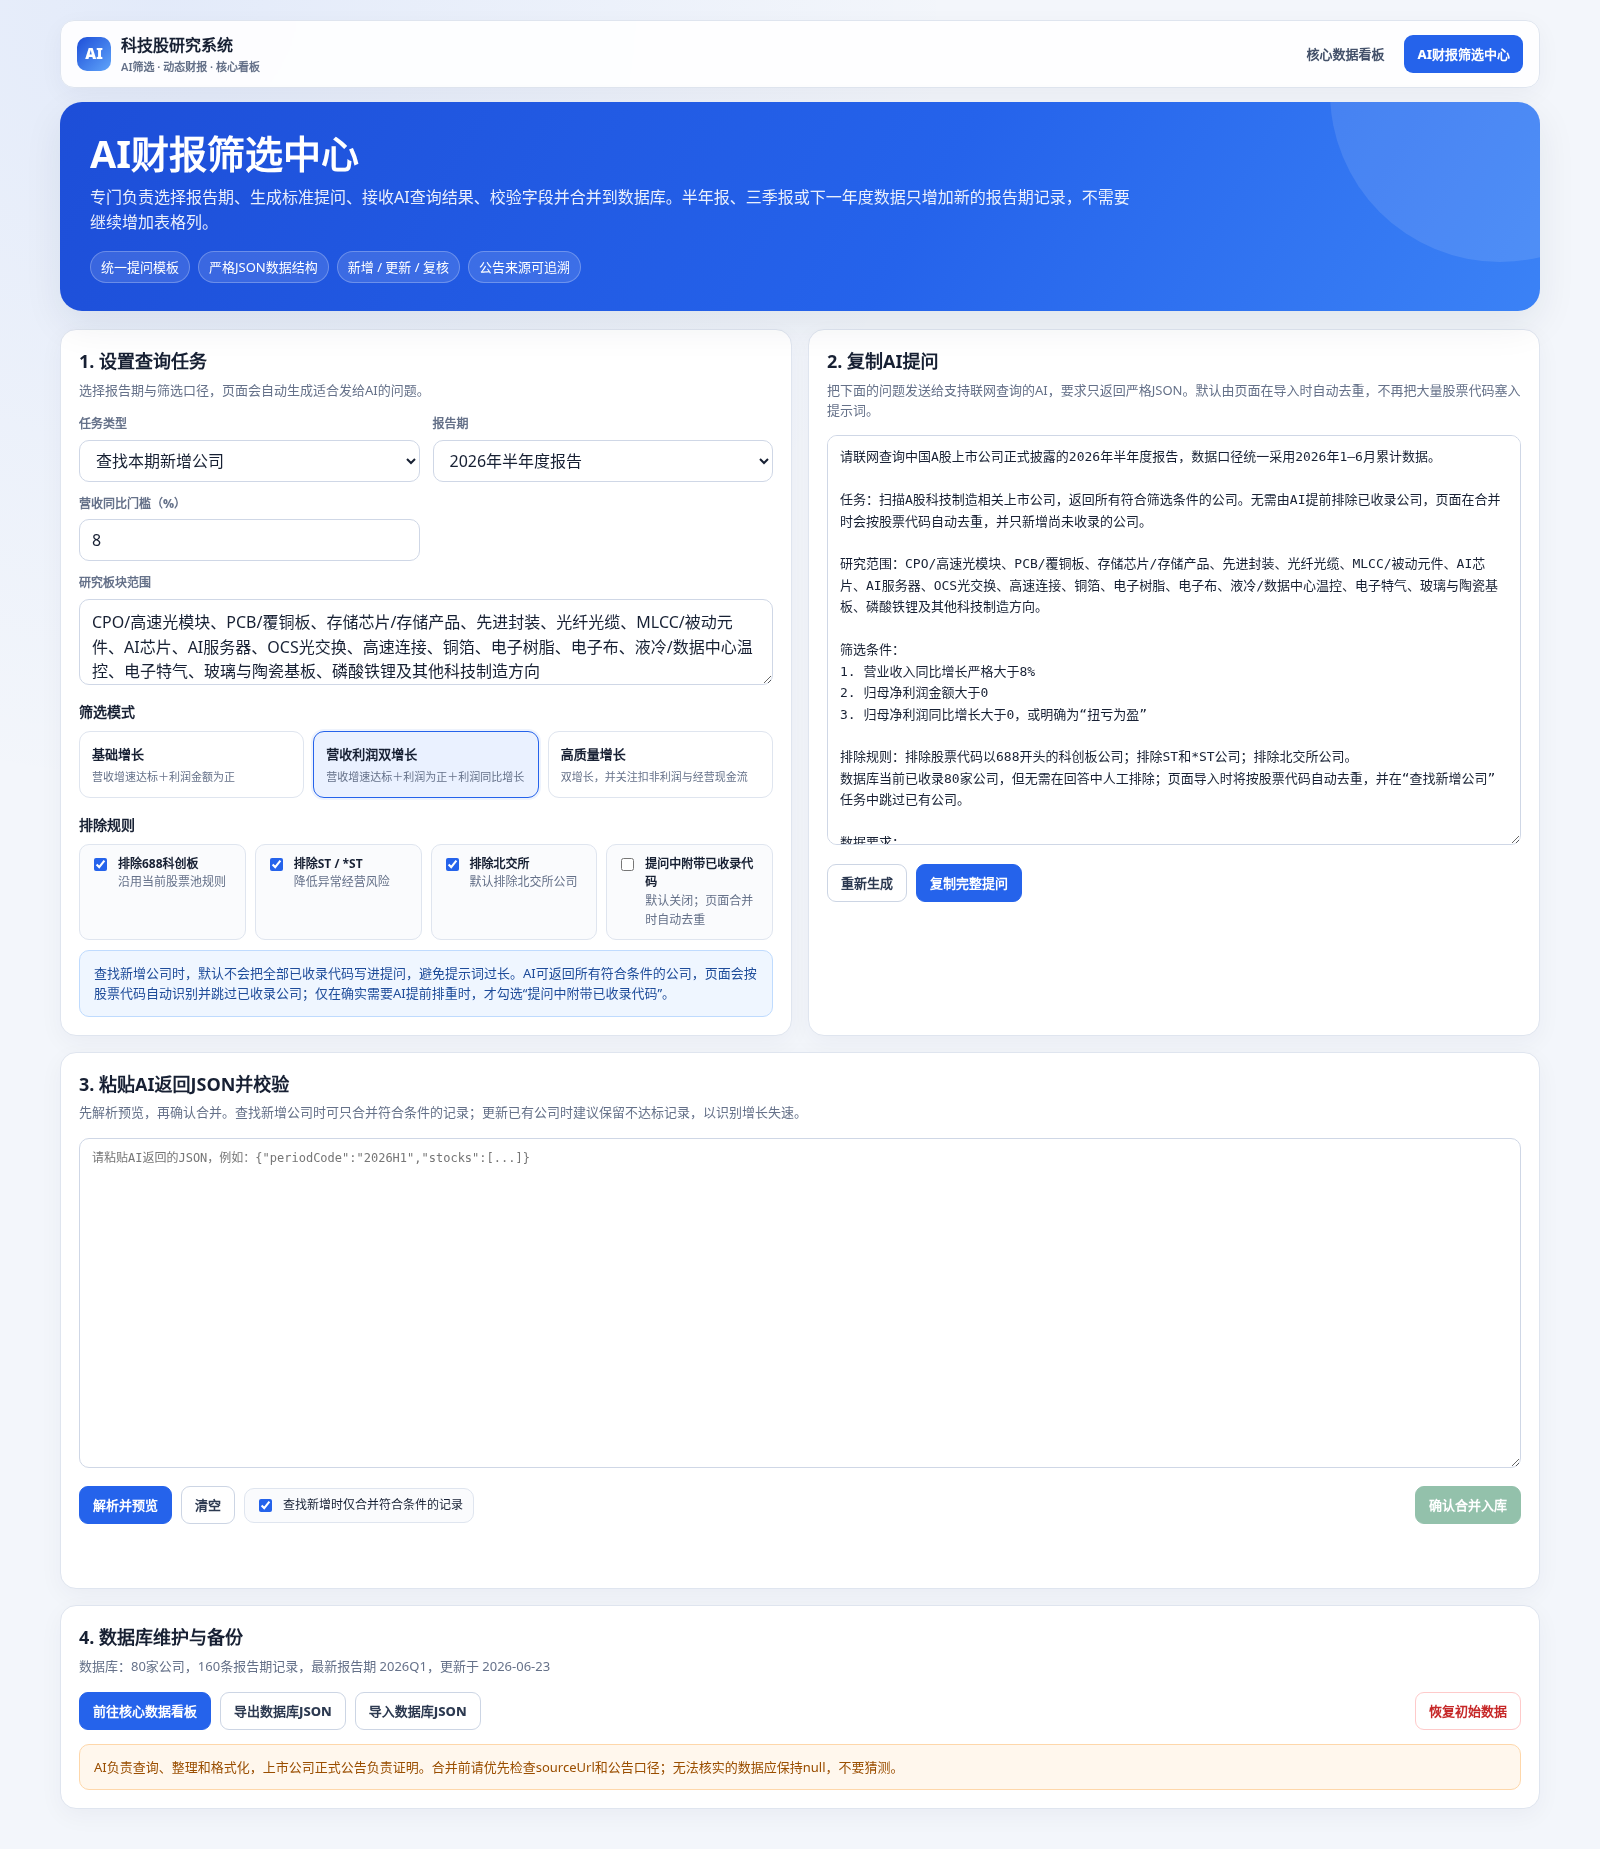
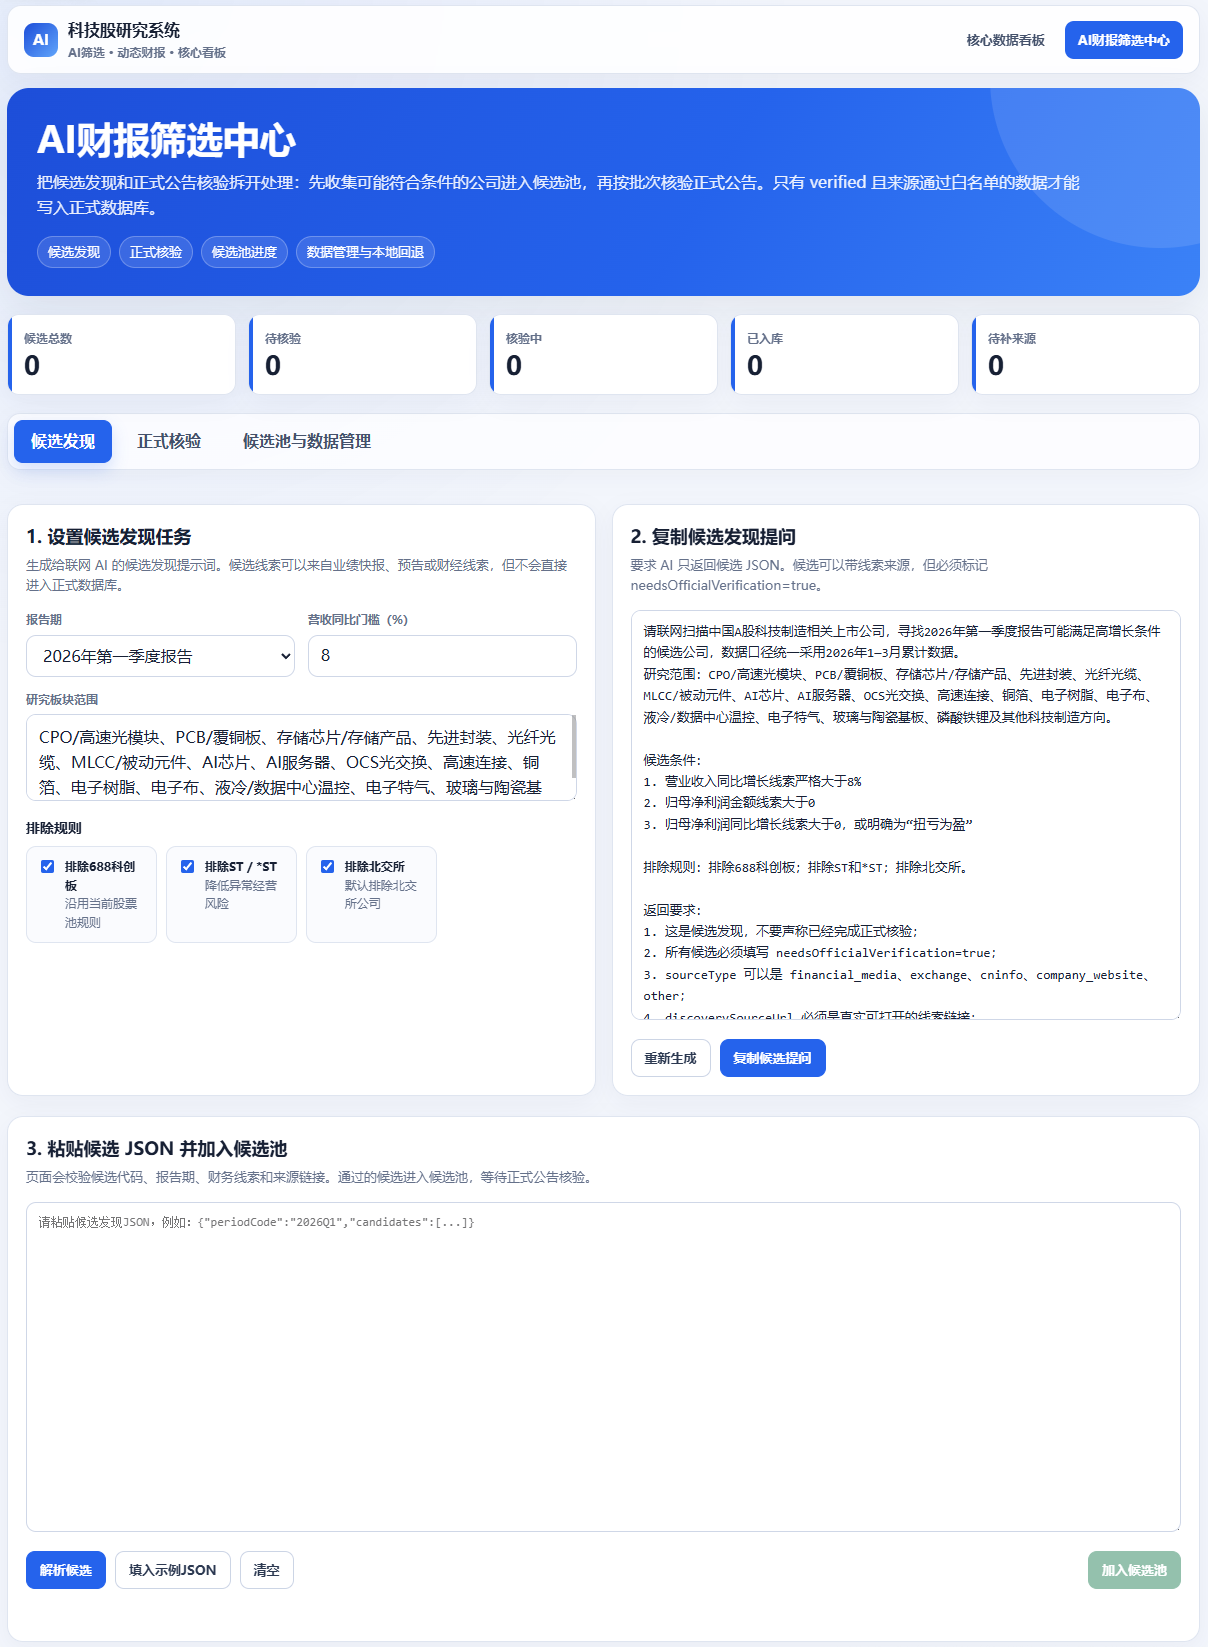
docs: 更新项目截图并完善 README 文档

diff --git a/README.md b/README.md
@@ -38,11 +38,11 @@
 
 ![AI 筛选中心](docs/preview-screening.png)
 
-### JSON 解析与正式核验
+### 候选池与数据管理
 
-页面支持解析 AI 返回的 JSON，自动清洗常见 Markdown 代码块、前后说明文字和包装格式，并在入库前做严格校验。
+`screening.html` 的“候选池与数据管理”页面用于管理候选池、正式数据库、本机快照、公告来源清单以及正式数据删除操作。
 
-![JSON 解析预览](docs/preview-screening-json.png)
+![候选池与数据管理](docs/preview-screening-data-management.png)
 
 ## 系统特色
 